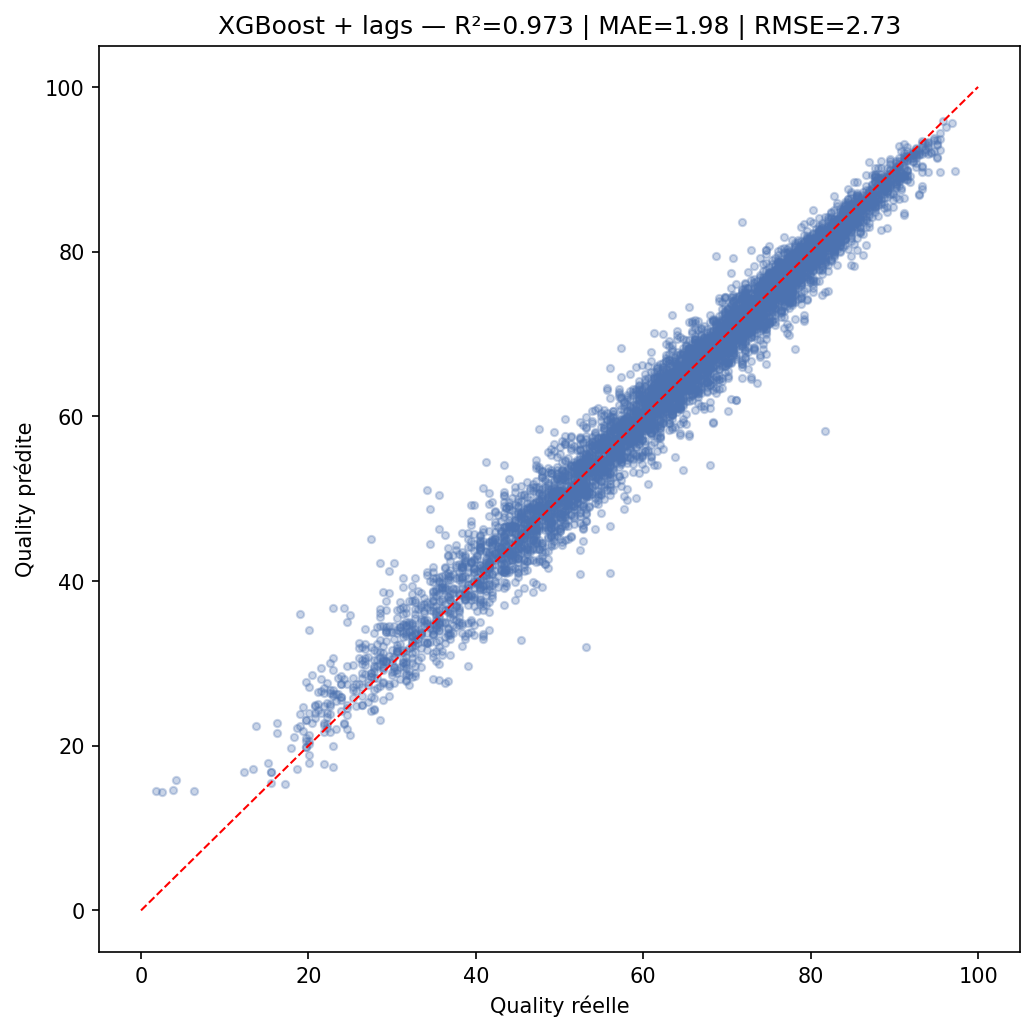
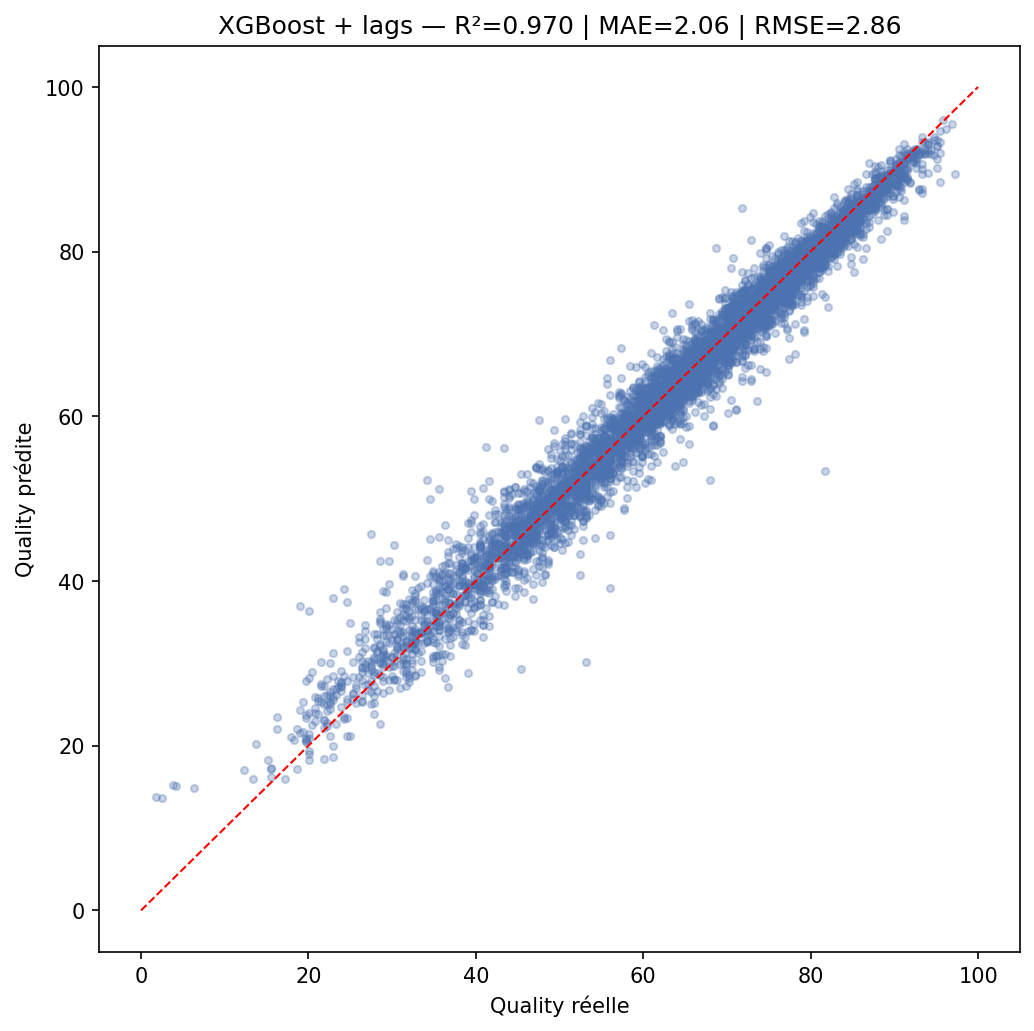
Add XGBoost + Optuna tuning script
Introduce scripts/XGBoost/XGBoost_optuna.py: an Optuna-based hyperparameter search for XGBRegressor (default N_TRIALS=150) that builds lag features, performs a temporal train/val/test split, tunes model hyperparameters (including n_lags) with early stopping on GPU, then trains a final model on train+val and evaluates on test (R², MAE, RMSE). The script also generates and saves diagnostic plots (pred vs actual, Optuna convergence, top features) to figures/XGBoost_optuna.png. Also updates the binary figure fig_XGBoost_lags.png.

diff --git a/scripts/XGBoost/XGBoost_optuna.py b/scripts/XGBoost/XGBoost_optuna.py
@@ -1,0 +1,170 @@
+import sys, os
+import pandas as pd
+import numpy as np
+import matplotlib.pyplot as plt
+import optuna
+from xgboost import XGBRegressor
+from sklearn.metrics import mean_absolute_error, mean_squared_error, r2_score
+
+sys.path.insert(0, os.path.join(os.path.dirname(os.path.abspath(__file__)), '..', 'Import'))
+from import_data_matrice import data_X_formatee, data_Y_formatee
+
+optuna.logging.set_verbosity(optuna.logging.WARNING)
+
+BASE_DIR = os.path.join(os.path.dirname(os.path.abspath(__file__)), '..', '..')
+N_TRIALS = 150   # ← augmenter pour un search plus exhaustif (ex : 300)
+
+# ════════════════════════════════════════════════════════
+# CONSTRUCTION DU DATASET AVEC N LAGS
+# ════════════════════════════════════════════════════════
+
+def build_dataset(n_lags: int):
+    df = data_X_formatee.copy()
+    for lag in range(1, n_lags + 1):
+        df[f'quality_lag{lag}'] = data_Y_formatee.shift(lag)
+    df = df.dropna()
+    y = data_Y_formatee.loc[df.index]
+    return df, y
+
+def temporal_split(df, y):
+    n = len(df)
+    i_val  = int(n * 0.72)
+    i_test = int(n * 0.80)
+    return (
+        df.iloc[:i_val],       y.iloc[:i_val],
+        df.iloc[i_val:i_test], y.iloc[i_val:i_test],
+        df.iloc[i_test:],      y.iloc[i_test:],
+    )
+
+# ════════════════════════════════════════════════════════
+# FONCTION OBJECTIF OPTUNA
+# ════════════════════════════════════════════════════════
+
+def objective(trial):
+    n_lags = trial.suggest_int('n_lags', 1, 6)
+    df, y  = build_dataset(n_lags)
+    X_tr, y_tr, X_val, y_val, _, _ = temporal_split(df, y)
+
+    params = dict(
+        n_estimators          = 3000,
+        learning_rate         = trial.suggest_float('learning_rate', 0.005, 0.1, log=True),
+        max_depth             = trial.suggest_int('max_depth', 3, 10),
+        subsample             = trial.suggest_float('subsample', 0.5, 1.0),
+        colsample_bytree      = trial.suggest_float('colsample_bytree', 0.2, 1.0),
+        min_child_weight      = trial.suggest_int('min_child_weight', 1, 10),
+        gamma                 = trial.suggest_float('gamma', 0.0, 5.0),
+        reg_alpha             = trial.suggest_float('reg_alpha', 1e-8, 10.0, log=True),
+        reg_lambda            = trial.suggest_float('reg_lambda', 1e-8, 10.0, log=True),
+        early_stopping_rounds = 50,
+        tree_method           = 'hist',
+        device                = 'cuda',
+        verbosity             = 0,
+        random_state          = 42,
+    )
+
+    model = XGBRegressor(**params)
+    model.fit(X_tr, y_tr, eval_set=[(X_val, y_val)], verbose=False)
+
+    # On sauvegarde le n_estimators optimal (trouvé par early stopping)
+    trial.set_user_attr('best_iteration', model.best_iteration)
+
+    y_pred_val = model.predict(X_val)
+    return float(np.sqrt(mean_squared_error(y_val, y_pred_val)))
+
+# ════════════════════════════════════════════════════════
+# LANCEMENT DE L'OPTIMISATION
+# ════════════════════════════════════════════════════════
+
+print(f"Démarrage Optuna — {N_TRIALS} essais (GPU activé)...")
+
+sampler = optuna.samplers.TPESampler(seed=42)
+study   = optuna.create_study(direction='minimize', sampler=sampler)
+study.optimize(objective, n_trials=N_TRIALS, show_progress_bar=True)
+
+best_params   = study.best_params.copy()
+n_lags_best   = best_params.pop('n_lags')
+n_est_best    = study.best_trial.user_attrs['best_iteration']
+rmse_val_best = study.best_value
+
+print(f"\n{'═'*55}")
+print(f"  MEILLEURS PARAMÈTRES  (RMSE val = {rmse_val_best:.4f})")
+print(f"{'═'*55}")
+print(f"  n_lags          : {n_lags_best}")
+print(f"  n_estimators    : {n_est_best}  (via early stopping)")
+for k, v in best_params.items():
+    print(f"  {k:<22}: {v:.6g}" if isinstance(v, float) else f"  {k:<22}: {v}")
+print(f"{'═'*55}\n")
+
+# ════════════════════════════════════════════════════════
+# MODÈLE FINAL  (entraîné sur train + val, évalué sur test)
+# ════════════════════════════════════════════════════════
+
+df_f, y_f = build_dataset(n_lags_best)
+X_tr, y_tr, X_val, y_val, X_test, y_test = temporal_split(df_f, y_f)
+
+X_trainval = pd.concat([X_tr, X_val])
+y_trainval = pd.concat([y_tr, y_val])
+
+final_model = XGBRegressor(
+    **best_params,
+    n_estimators = n_est_best,
+    tree_method  = 'hist',
+    device       = 'cuda',
+    verbosity    = 0,
+    random_state = 42,
+)
+
+print("Entraînement du modèle final (train + val)...")
+final_model.fit(X_trainval, y_trainval, verbose=False)
+
+y_pred = final_model.predict(X_test)
+mae    = mean_absolute_error(y_test, y_pred)
+rmse   = np.sqrt(mean_squared_error(y_test, y_pred))
+r2     = r2_score(y_test, y_pred)
+
+print(f"\n── Résultats sur jeu de test ──")
+print(f"R²   : {r2:.4f}")
+print(f"MAE  : {mae:.4f}")
+print(f"RMSE : {rmse:.4f}")
+
+# ════════════════════════════════════════════════════════
+# FIGURES
+# ════════════════════════════════════════════════════════
+
+fig, axes = plt.subplots(1, 3, figsize=(17, 5))
+fig.suptitle(
+    f"XGBoost + Optuna — R²={r2:.4f} | MAE={mae:.2f} | RMSE={rmse:.2f}  "
+    f"(n_lags={n_lags_best}, n_est={n_est_best})",
+    fontsize=12, fontweight='bold'
+)
+
+# (1) Prédit vs réel
+axes[0].scatter(y_test, y_pred, alpha=0.3, s=12, color='#4C72B0')
+axes[0].plot([0, 100], [0, 100], 'r--', linewidth=1)
+axes[0].set_xlabel("Quality réelle")
+axes[0].set_ylabel("Quality prédite")
+axes[0].set_title("Prédit vs Réel (test)")
+
+# (2) Convergence de l'optimisation
+trial_values = [t.value for t in study.trials if t.value is not None]
+best_so_far  = pd.Series(trial_values).cummin()
+axes[1].plot(trial_values, color='#DD8452', linewidth=0.8, alpha=0.6, label='RMSE trial')
+axes[1].plot(best_so_far,  color='red',     linewidth=1.5, label=f'Best = {rmse_val_best:.4f}')
+axes[1].set_xlabel("Trial n°")
+axes[1].set_ylabel("RMSE (validation)")
+axes[1].set_title("Convergence Optuna")
+axes[1].legend(fontsize=8)
+
+# (3) Top 15 features importantes
+feat_imp = pd.Series(final_model.feature_importances_, index=X_trainval.columns)
+top15    = feat_imp.nlargest(15)
+top15[::-1].plot(kind='barh', ax=axes[2], color='#4C72B0')
+axes[2].set_title("Top 15 features importantes")
+axes[2].set_xlabel("Importance")
+
+plt.tight_layout()
+out = os.path.join(BASE_DIR, "figures", "XGBoost_optuna.png")
+os.makedirs(os.path.dirname(out), exist_ok=True)
+plt.savefig(out, dpi=150, bbox_inches='tight')
+plt.show()
+print(f"[Saved] {out}")
